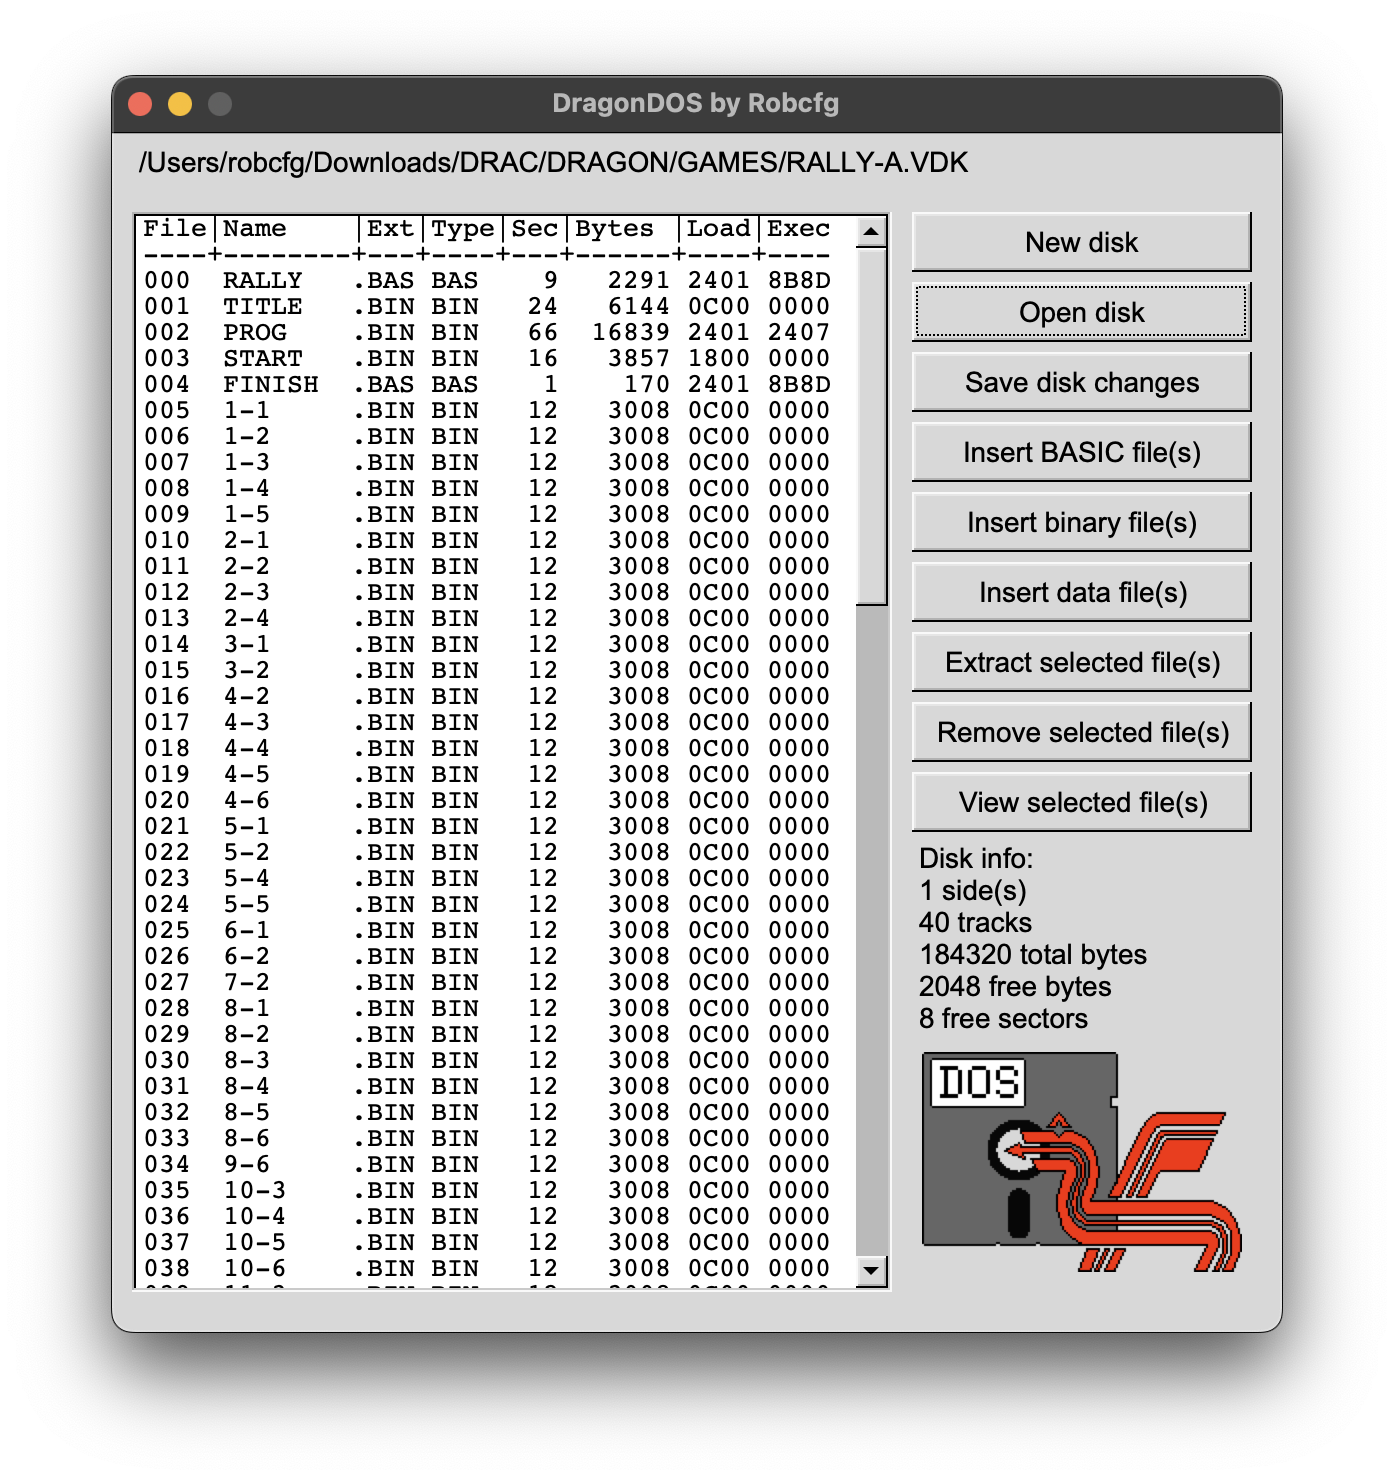
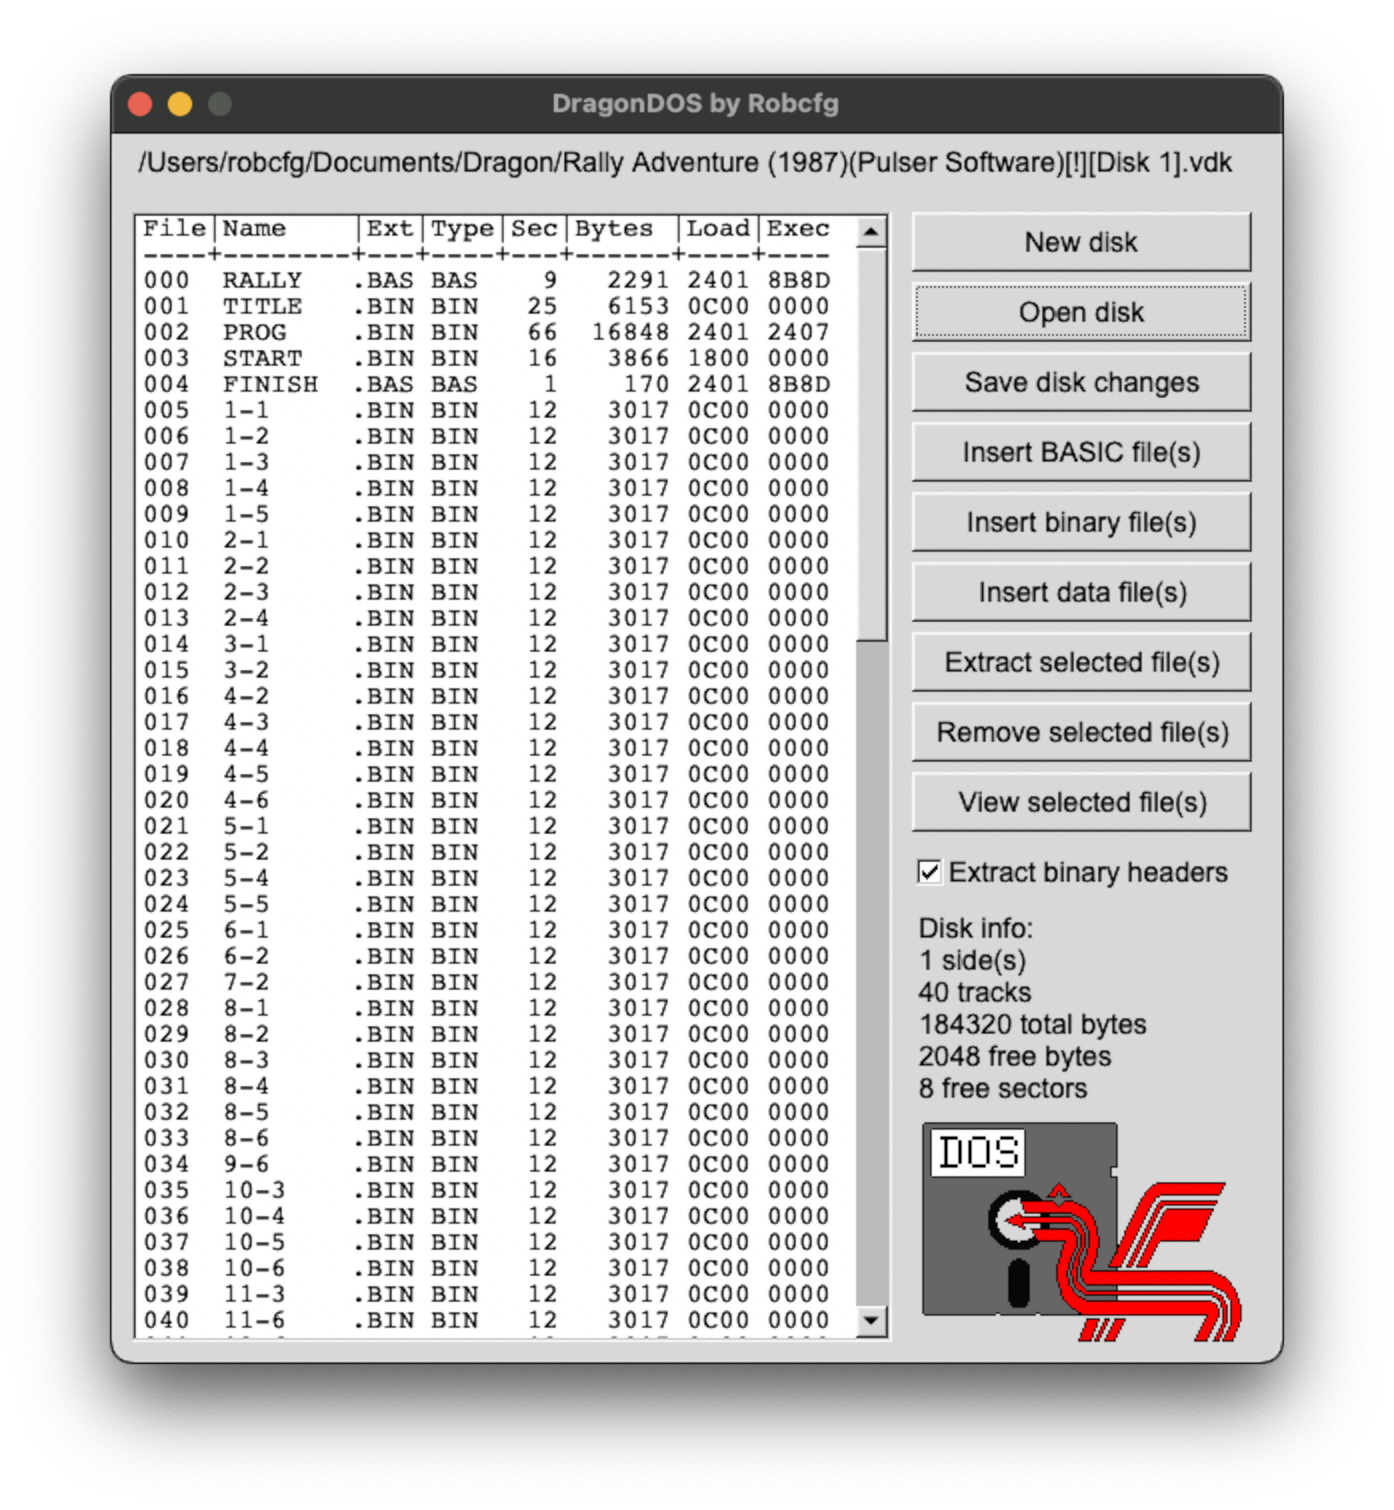
Updated main ui screenshot and extract command description.

Changed region(s): [[0.0617, 0.0311, 0.9254, 0.9014]]

diff --git a/dragondos/README.md b/dragondos/README.md
@@ -42,10 +42,13 @@ The following commands are available:
 
   Extracts all files from within the disk image to the current directory.\
   If an optional file index is specified, only that file will be extracted to\
-  current directory.
+  current directory.\
+  Binary files are extracted with the 9-byte DragonDOS header by default. To\
+  extract them without the header, use the **-strip_binary_header** flag.
 
       dragondos extract mydisk.vdk
       dragondos extract mydisk.vdk 2
+      dragondos extract mydisk.vdk 2 -strip_binary_header
 
 * **new \<filename\> \<image size\>**
 
